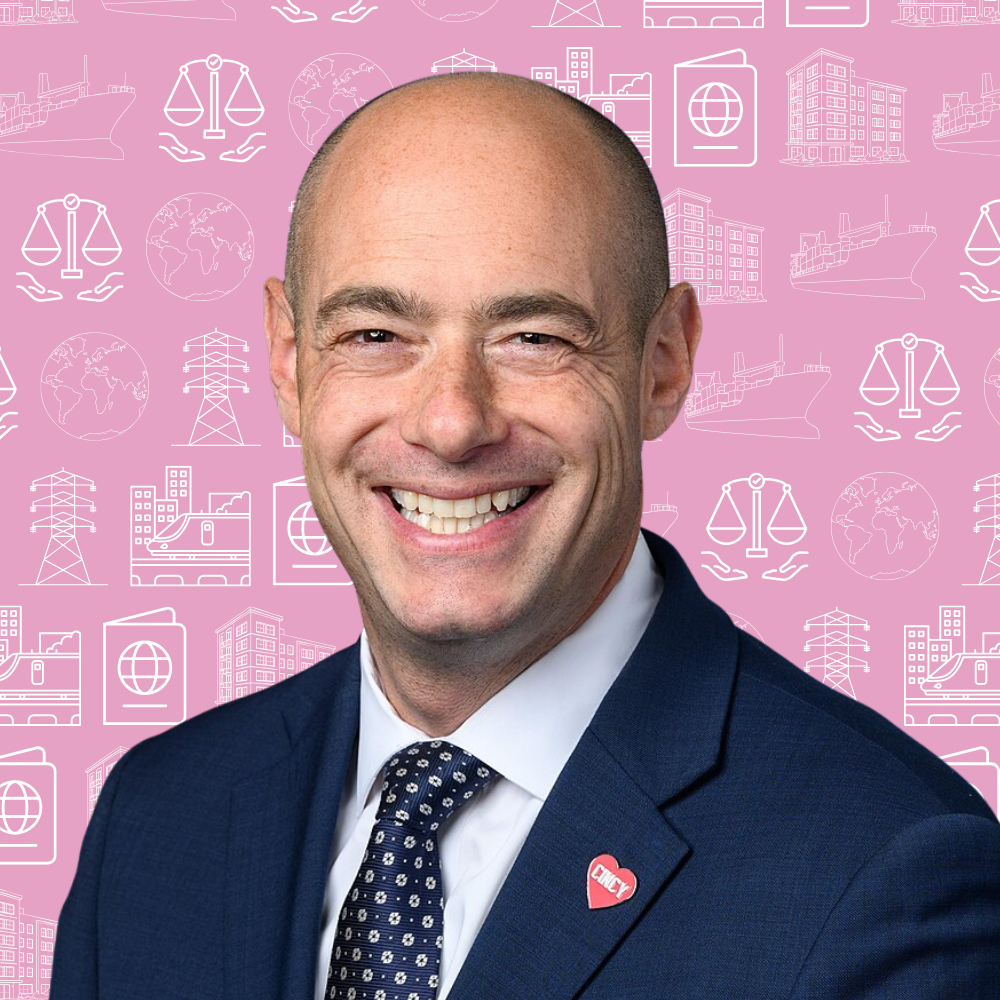
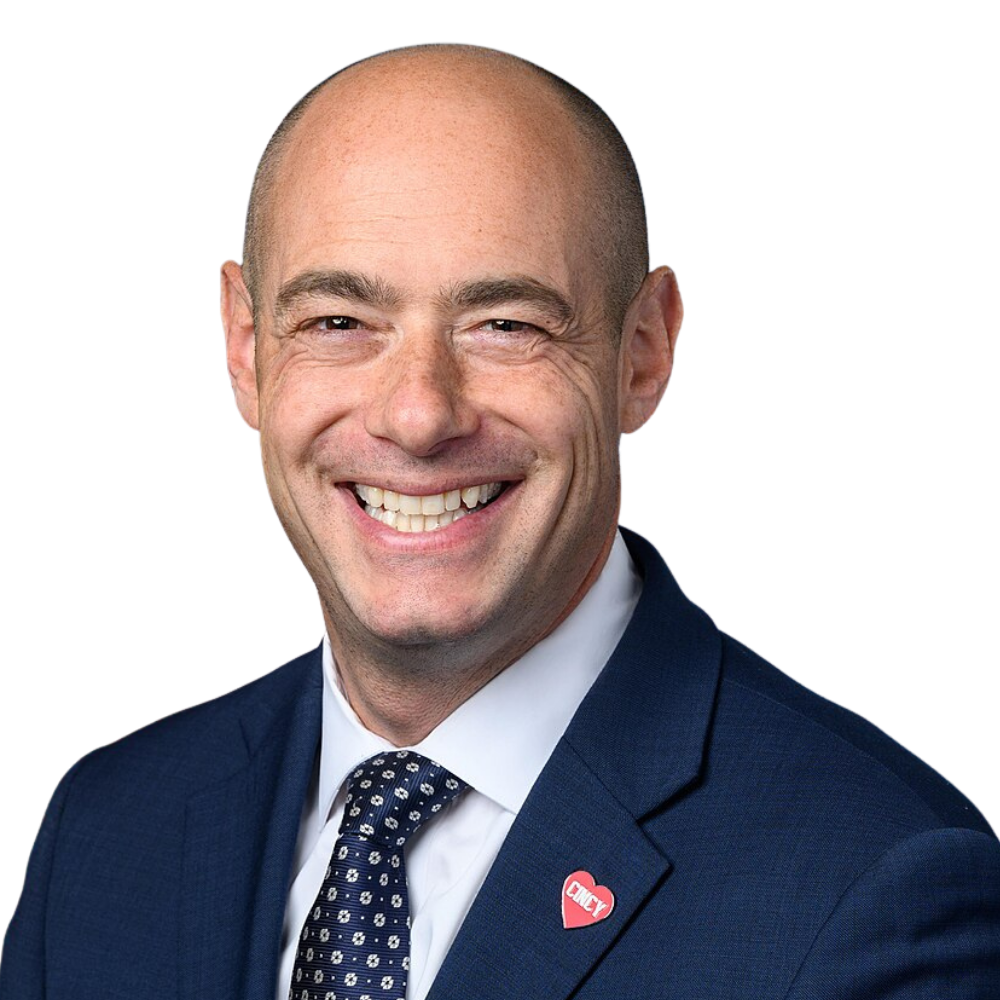
modified:   assets/speakers/Beyer.png 	new file:   assets/speakers/Budzinski (2).png 	new file:   assets/speakers/Budzinski.png 	new file:   assets/speakers/Canter.png 	new file:   assets/speakers/Gordon.png 	new file:   assets/speakers/Greenberg.png 	new file:   assets/speakers/Harder.png 	new file

diff --git a/speakers.html b/speakers.html
@@ -35,130 +35,15 @@
     </header>
 
     <section class="speakers-page-section">
-        <div class="speakers-full-grid">
-            <!-- Keynote Speakers -->
-            <div class="speaker-category">
-                <h2 class="category-title">Keynote Speakers</h2>
-                <div class="speakers-grid">
-                    <div class="speaker-clipping" style="--rotation: 1.5deg;">
-                        <div class="clipping-photo">
-                            <img src="assets/speakers/fukuyama.png" alt="Francis Fukuyama" loading="lazy" decoding="async">
-                        </div>
-                        <div class="clipping-caption">
-                            <h3>Francis Fukuyama</h3>
-                            <p>Political Scientist & Author</p>
-                        </div>
-                    </div>
-
-                    <div class="speaker-clipping" style="--rotation: -1deg;">
-                        <div class="clipping-photo">
-                            <img src="assets/speakers/auchincloss.jpg" alt="Rep. Jake Auchincloss" loading="lazy" decoding="async">
-                        </div>
-                        <div class="clipping-caption">
-                            <h3>Rep. Jake Auchincloss</h3>
-                            <p>U.S. Representative, MA-04</p>
-                        </div>
-                    </div>
-
-                    <div class="speaker-clipping" style="--rotation: 0.8deg;">
-                        <div class="clipping-photo">
-                            <img src="assets/speakers/bennet.jpg" alt="Sen. Michael Bennet" loading="lazy" decoding="async">
-                        </div>
-                        <div class="clipping-caption">
-                            <h3>Sen. Michael Bennet</h3>
-                            <p>U.S. Senator, Colorado</p>
-                        </div>
-                    </div>
-
-                    <div class="speaker-clipping speaker-placeholder" style="--rotation: -1.2deg;">
-                        <div class="clipping-photo placeholder-photo">
-                            <span>+</span>
-                        </div>
-                        <div class="clipping-caption">
-                            <h3>More Coming Soon</h3>
-                            <p>Stay tuned for announcements</p>
-                        </div>
-                    </div>
-                </div>
-            </div>
-
-            <!-- Panel Speakers -->
-            <div class="speaker-category">
-                <h2 class="category-title">Panel Speakers</h2>
-                <div class="speakers-grid">
-                    <div class="speaker-clipping speaker-placeholder" style="--rotation: 0.5deg;">
-                        <div class="clipping-photo placeholder-photo">
-                            <span>+</span>
-                        </div>
-                        <div class="clipping-caption">
-                            <h3>TBA</h3>
-                            <p>Coming soon</p>
-                        </div>
-                    </div>
-
-                    <div class="speaker-clipping speaker-placeholder" style="--rotation: -0.8deg;">
-                        <div class="clipping-photo placeholder-photo">
-                            <span>+</span>
-                        </div>
-                        <div class="clipping-caption">
-                            <h3>TBA</h3>
-                            <p>Coming soon</p>
-                        </div>
-                    </div>
-
-                    <div class="speaker-clipping speaker-placeholder" style="--rotation: 1.2deg;">
-                        <div class="clipping-photo placeholder-photo">
-                            <span>+</span>
-                        </div>
-                        <div class="clipping-caption">
-                            <h3>TBA</h3>
-                            <p>Coming soon</p>
-                        </div>
-                    </div>
-                </div>
-            </div>
-
-            <!-- Workshop Leaders -->
-            <div class="speaker-category">
-                <h2 class="category-title">Workshop Leaders</h2>
-                <div class="speakers-grid">
-                    <div class="speaker-clipping speaker-placeholder" style="--rotation: -0.6deg;">
-                        <div class="clipping-photo placeholder-photo">
-                            <span>+</span>
-                        </div>
-                        <div class="clipping-caption">
-                            <h3>TBA</h3>
-                            <p>Coming soon</p>
-                        </div>
-                    </div>
-
-                    <div class="speaker-clipping speaker-placeholder" style="--rotation: 1deg;">
-                        <div class="clipping-photo placeholder-photo">
-                            <span>+</span>
-                        </div>
-                        <div class="clipping-caption">
-                            <h3>TBA</h3>
-                            <p>Coming soon</p>
-                        </div>
-                    </div>
-
-                    <div class="speaker-clipping speaker-placeholder" style="--rotation: -0.4deg;">
-                        <div class="clipping-photo placeholder-photo">
-                            <span>+</span>
-                        </div>
-                        <div class="clipping-caption">
-                            <h3>TBA</h3>
-                            <p>Coming soon</p>
-                        </div>
-                    </div>
-                </div>
-            </div>
+        <div class="featured-speakers-grid" id="speakers-grid">
+            <!-- populated by speakers.js + script.js -->
         </div>
     </section>
 
     <div id="footer-placeholder"></div>
 
     <script src="config.js"></script>
+    <script src="speakers.js"></script>
     <script src="components.js"></script>
     <script src="script.js"></script>
 </body>

diff --git a/speakers.js b/speakers.js
@@ -1,0 +1,131 @@
+// ============================================
+// NLAS 2026 - Speakers Configuration
+// ============================================
+// Add, remove, or reorder speakers here.
+// Set enabled: false to hide a speaker without deleting them.
+// Speakers are displayed in the order listed below.
+// photo: filename without extension (file must be assets/speakers/<photo>.png)
+// ============================================
+
+var SPEAKERS_CONFIG = [
+    {
+        name: "Don Beyer",
+        title: "U.S. Representative, VA-08",
+        photo: "Beyer",
+        enabled: true
+    },
+    {
+        name: "Nikki Budzinski",
+        title: "U.S. Representative, IL-13",
+        photo: "Budzinski",
+        enabled: true
+    },
+    {
+        name: "Rachel Canter",
+        title: "Director of Education Policy, PPI",
+        photo: "Canter",
+        enabled: true
+    },
+    {
+        name: "Francis Fukuyama",
+        title: "Political Scientist & Author",
+        photo: "fukuyama",
+        enabled: true
+    },
+    {
+        name: "Robert Gordon",
+        title: "EVP for State Initiatives, Recoding America",
+        photo: "Gordon",
+        enabled: true
+    },
+    {
+        name: "Hana Greenberg",
+        title: "VP of Advocacy, Public Finance, Arnold Ventures",
+        photo: "Greenberg",
+        enabled: true
+    },
+    {
+        name: "Josh Harder",
+        title: "Former U.S. Representative, CA-09",
+        photo: "Harder",
+        enabled: true
+    },
+    {
+        name: "Rick Kahlenberg",
+        title: "Author & Policy Researcher",
+        photo: "Kahlenberg",
+        enabled: true
+    },
+    {
+        name: "Greg Landsman",
+        title: "U.S. Representative, OH-01",
+        photo: "Landsman",
+        enabled: true
+    },
+    {
+        name: "Mary Landrieu",
+        title: "Former U.S. Senator, Louisiana",
+        photo: "Landrieu",
+        enabled: true
+    },
+    {
+        name: "Stu Malec",
+        title: "VP of Public Affairs, PPI",
+        photo: "Malec",
+        enabled: true
+    },
+    {
+        name: "Will Marshall",
+        title: "President & Founder, PPI",
+        photo: "Marshall",
+        enabled: true
+    },
+    {
+        name: "Jennifer McClellan",
+        title: "U.S. Representative, VA-04",
+        photo: "McClellan",
+        enabled: true
+    },
+    {
+        name: "Colin Mortimer",
+        title: "Executive Director, CNL",
+        photo: "Mortimer",
+        enabled: true
+    },
+    {
+        name: "Phelton Moss",
+        title: "Associate Professor, VCU",
+        photo: "Moss",
+        enabled: true
+    },
+    {
+        name: "Michael Nutter",
+        title: "Former Mayor of Philadelphia",
+        photo: "Nutter",
+        enabled: true
+    },
+    {
+        name: "Ben Ritz",
+        title: "Director, Center for Funding America's Future, PPI",
+        photo: "Ritz",
+        enabled: false
+    },
+    {
+        name: "Rini Sampath",
+        title: "Former Candidate for Mayor, Washington DC",
+        photo: "Sampath",
+        enabled: true
+    },
+    {
+        name: "Brad Schneider",
+        title: "U.S. Representative, IL-10",
+        photo: "Schneider",
+        enabled: true
+    },
+    {
+        name: "Paul Weinstein",
+        title: "Senior Fellow, PPI",
+        photo: "Weinstein",
+        enabled: true
+    },
+];

diff --git a/script.js b/script.js
@@ -4,6 +4,7 @@
 
 document.addEventListener('DOMContentLoaded', () => {
     applyConfig();
+    renderSpeakers();
     initNavigation();
     initSmoothScroll();
     initCountdown();
@@ -256,4 +257,47 @@ function initScrollReveal() {
     }, { threshold: 0.2 });
 
     cards.forEach(card => observer.observe(card));
+}
+
+// ============================================
+// Speakers Grid Renderer
+// ============================================
+function renderSpeakers() {
+    const grid = document.getElementById('speakers-grid');
+    if (!grid || typeof SPEAKERS_CONFIG === 'undefined') return;
+
+    // color scheme: [card-color, card-bg]
+    const schemes = [
+        ['#59abda', '#01b27c'],
+        ['#e5a2c4', '#59abda'],
+        ['#f1ea7d', '#59abda'],
+        ['#01b27c', '#e5a2c4'],
+    ];
+    const rotations = [-1.5, 1, -0.8, 1.5, -0.5, 0.8, -1.2, 1, -0.6, 1.2, -1, 0.5];
+
+    const active = SPEAKERS_CONFIG.filter(s => s.enabled);
+
+    active.forEach((speaker, i) => {
+        const [cardColor, cardBg] = schemes[i % schemes.length];
+        const rotation = rotations[i % rotations.length];
+        const num = String(i + 1).padStart(2, '0');
+
+        const card = document.createElement('div');
+        card.className = 'speaker-card';
+        card.style.cssText = `--card-color: ${cardColor}; --card-bg: ${cardBg}; --rotation: ${rotation}deg;`;
+
+        card.innerHTML = `
+            <div class="card-header"><span class="card-number">NO. ${num}</span></div>
+            <div class="card-photo">
+                <img src="assets/speakers/${speaker.photo}.png" alt="${speaker.name}" loading="lazy" decoding="async">
+            </div>
+            <div class="card-caption">
+                <h3>${speaker.name}</h3>
+                <p>${speaker.title}</p>
+            </div>`;
+
+        grid.appendChild(card);
+    });
+
+    initScrollReveal();
 }

diff --git a/styles.css b/styles.css
@@ -1100,6 +1100,7 @@ section {
 .card-photo {
     aspect-ratio: 1;
     overflow: hidden;
+    background: var(--card-bg, var(--nlas-cream));
 }
 
 .card-photo img {
@@ -1610,10 +1611,9 @@ section {
 .category-title {
     font-family: var(--font-typewriter);
     font-size: 1.5rem;
-    color: var(--cnl-white);
+    color: var(--nlas-sky);
     text-transform: uppercase; letter-spacing: 0.08em;
     margin-bottom: 1.5rem;
-    text-shadow: 2px 2px 10px rgba(0,0,0,0.3);
 }
 
 .speakers-grid {

diff --git a/config.js b/config.js
@@ -21,7 +21,7 @@ var SITE_CONFIG = {
     },
     pages: {
         about: true,
-        speakers: false,
+        speakers: true,
         schedule: false,
         logistics: true,
         faqs: true,
@@ -34,3 +34,5 @@ var SITE_CONFIG = {
         scholarshipApplicationsOpen: true
     }
 };
+
+
